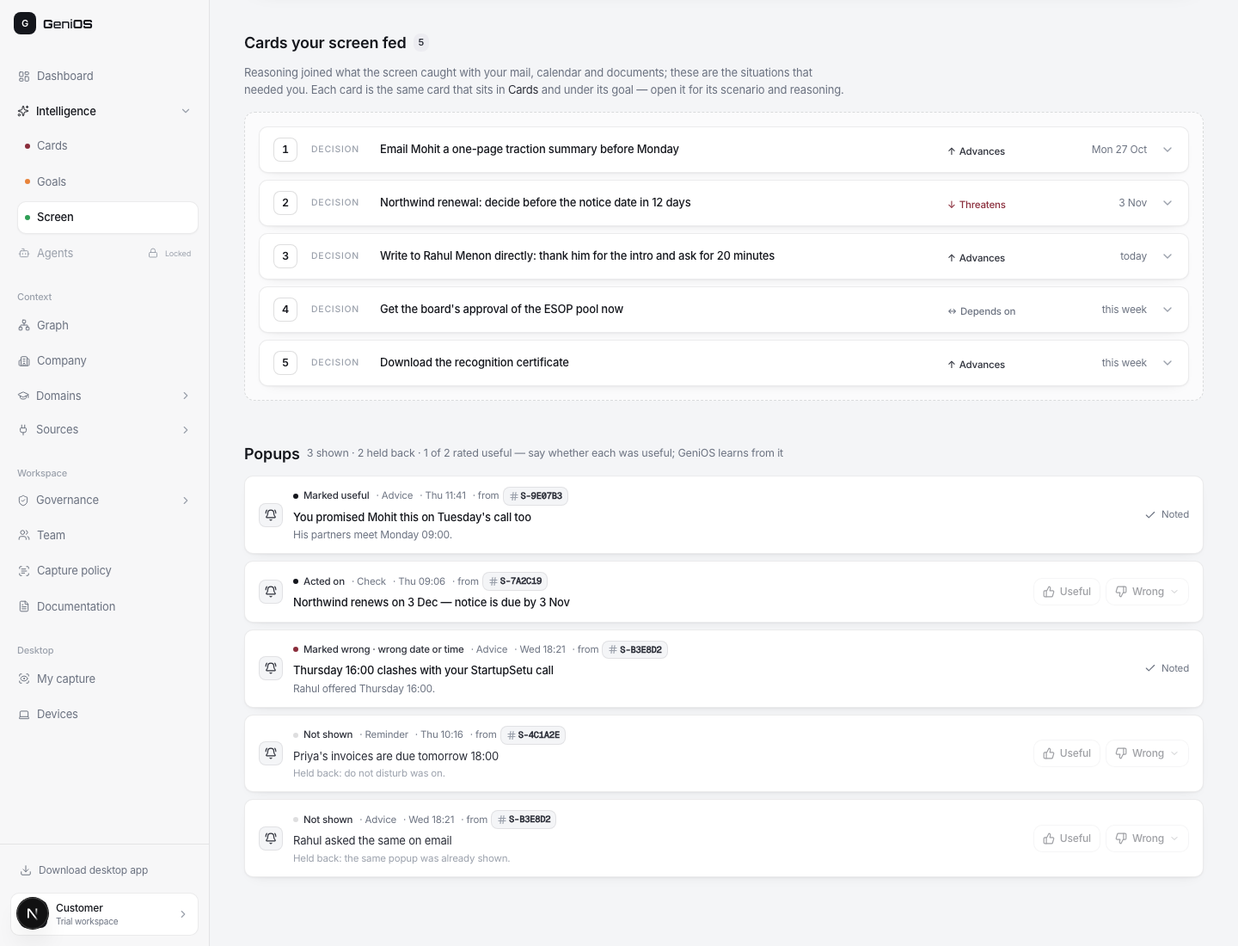
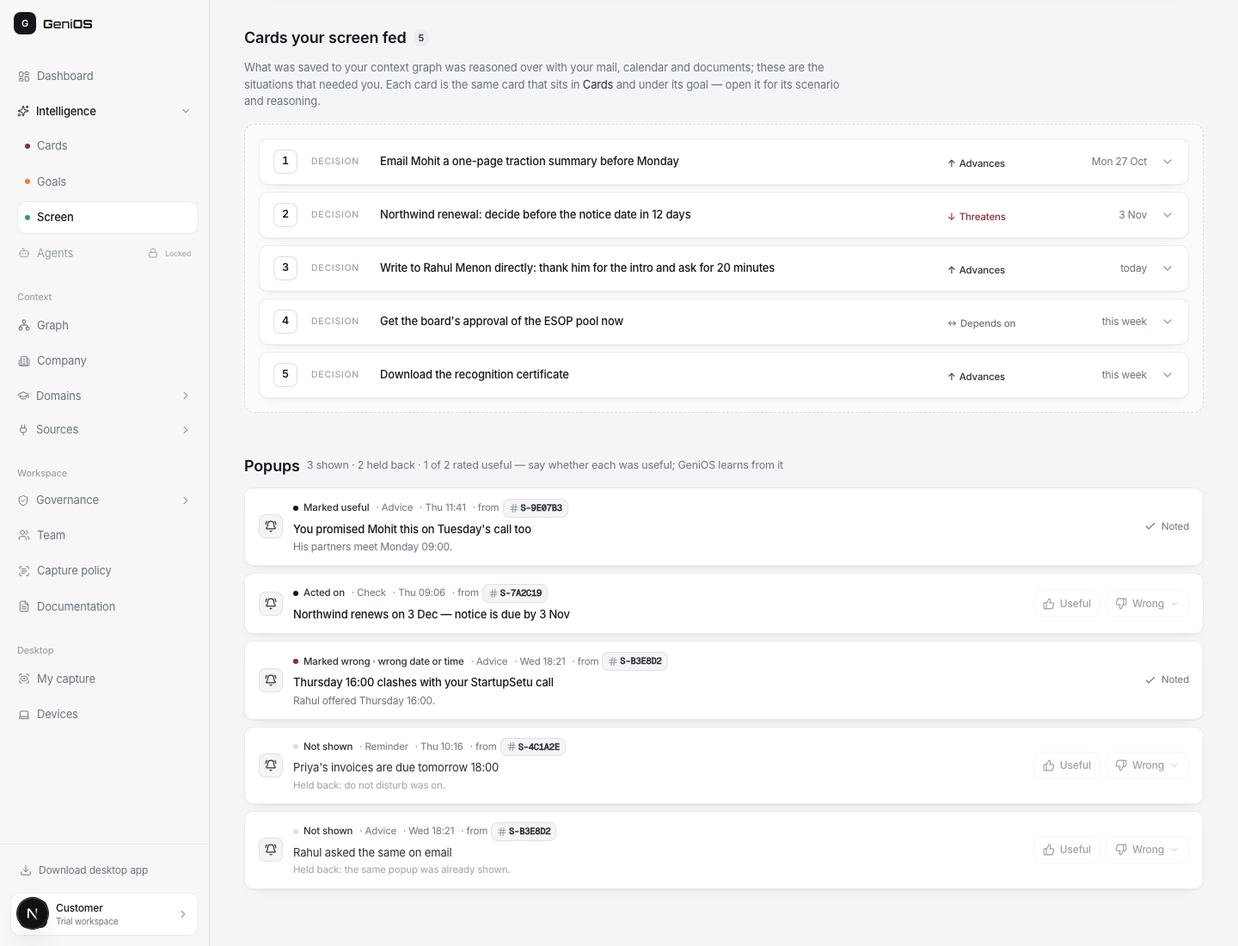
GeniOS-010: Screen by category — tags, the screen rebuilt, one line, kept or temporary
05-SCREEN/README.md for round two: five categories inside each day, tags on every row, an item
opened (the screen rebuilt from the kept words, in one line, who/where/when/due, kept or
temporary), live vs preview, and the brain fields it adds to B8 (remember/keep_reason, due_phrase).
Eight screenshots replace six; build review, start page and log updated.

diff --git a/speedrun008/GeniOS-010/05-SCREEN/README.md b/speedrun008/GeniOS-010/05-SCREEN/README.md
@@ -3,7 +3,7 @@
 **Written for:** Harsh (to wire it in) and Rohit (to review it).
 
 **Status, 22 Oct 2026:**
-- Built on the dashboard branch `rohit/nav-grouping`, commit `9130f84` (with `f151019`, the shared card parts, and `5c0504f`, Agents locked). Not merged, so not live.
+- Built on the dashboard branch `rohit/nav-grouping`: `9130f84` (the page), `972d122` (by category, tags, the screen rebuilt, kept or temporary), with `f151019` (the shared card parts) and `5c0504f` (Agents locked). Not merged, so not live.
 - **Route:** `/dashboard/moments`, Intelligence ▸ **Screen**. Members can open it too.
 - **Preview** (the full target, labelled "Preview — not your data"): `/dashboard/moments?demo=1`.
 - `tsc --noEmit` and `next build` are green. The page was checked signed in against the stand-in brain (`../02-DASHBOARD-HOME/tools/mock_brain.py`): Draft a reply and Done ran against it end to end.
@@ -14,16 +14,20 @@
 - *"Screen aur cards dono lagbhag ek hi tareeke se similar type mein dikhne wale hain, isliye dono ko smartly play karein taaki screen aur card ek saath ho jaayein, lekin alag-alag rahein."*
 - And: lock the Agents part.
 
+**Second round, same day** (on the built page): *"What your screen caught … tag lagana chahiye tha … categories honi chahiye ki Thursday ko kaun-kaun si cheezein kis-kis category mein aayi hain — reminder, update, risk, promise"*; when an item opens, show what was on screen; *"the words that caused it — NLP ki madad se one-liner, clear cut"*; where / when properly; and *"kuch important hoga to memory mein, reasoning mein, context graph mein save ho jaayega; temporary rahega to wahin miss ho jaayega"*. *"Customer ke hisaab se UX."* All of it is in `972d122`, below.
+
 **Screenshots** (in `screens/`):
 
 | File | What it shows |
 |---|---|
-| `screen-preview-top.png` | The preview as it opens: the week on one strip, How Screen works, the filters. |
+| `screen-preview-top.png` | The preview as it opens: the week by category, How Screen works. |
 | `screen-preview-how-and-rules.png` | How Screen works with **The rules** open. |
-| `screen-preview-item-open.png` | A screen item open: on your screen · at once · next. |
-| `screen-preview-item-card.png` | The same item, with **the card it fed** open inside it: the card's own scenario and reasoning. |
+| `screen-preview-by-category.png` | What your screen caught: the category and "show" filters, Thursday's items under their categories, every row with its tags. |
+| `screen-preview-item-open.png` | An item open: the screen rebuilt (the due words marked), in one line, who · where · when · due, what GeniOS did right away. |
+| `screen-preview-item-next.png` | The same item: kept (saved to the context graph on Mohit Rao, reasoned over) and the card it fed, open. |
+| `screen-preview-temporary.png` | A temporary item: a follow-up that is not saved to the graph, and why. |
 | `screen-preview-cards-popups.png` | Cards your screen fed, and the popups. |
-| `screen-signed-in.png` | A signed-in seat, against the stand-in brain: real items, the card step shown as not served yet. |
+| `screen-signed-in.png` | A signed-in seat against the stand-in brain: real items by category, one open. |
 
 ---
 
@@ -34,7 +38,8 @@ Every **work** screen takes **both** paths. The instant path saves what to do no
 ```
  1 Read ─────► 2 Sort ──┬─► AT ONCE (seconds) ── 3 Save ── follow-ups ──► 4 Remind · popup (only if it adds)
  a few seconds   free   │
-                        └─► NEXT (hourly) ────── 5 Memory ── on the person ──► 6 Reason → card (under its goal)
+                        └─► NEXT (hourly) ────── 5 Keep or let go ── important: context graph ──► 6 Reason → card (under its goal)
+                                             temporary: stays a follow-up, removed 90 days after it closes
 ```
 
 | # | Stage | What happens | Brain |
@@ -43,7 +48,7 @@ Every **work** screen takes **both** paths. The instant path saves what to do no
 | 2 | **Sort** | Free. A conversation is always judged; a page is judged only if it names someone in the graph, has a participant with an email/LinkedIn, or is a work app or site. The rest is skipped, counted with its reason — and still reaches the hourly batch, late and cheap. | `reason/moments/screen_triage.py` |
 | 3 | **Save** | A **rule** answers when a sender writes a clear ask or promise with a date (free; the quote is the item). Otherwise **one quick read** (one model call) returns `work`, `remember` and up to 3 items: kind, text, who, due, quote. An item whose quote is not on screen is dropped. Saved as `screen_followups`. | `screen_rules.py`, `screen_insight.py`, `followups.upsert` |
 | 4 | **Remind · popup** | Reminders before each due time (heads-up → final → overdue). A popup **only** when it adds something the screen does not say: a repeat ask, a promise owed, a calendar clash, the same ask elsewhere, an urgent risk. Held back by popups-off, the hourly cap, do-not-disturb or a duplicate — and still listed. | `screen_insight.py` (the product rule), `moments` |
-| 5 | **Memory** | At most once an hour per thread, the thread becomes a seat-private source event. Each item is written as an observation (`screen.<kind>`) on the person or company it is about — **only one GeniOS already knows**; a screen never creates a person. The hourly batch (half price) catches what the instant read never saw. | `platform/screen_promoter.py`, `screen_memory.py`, `screen_memory_batch.py` |
+| 5 | **Keep or let go** | **Important** items are saved to the context graph: at most once an hour per thread, the thread becomes a seat-private source event, and each item is written as an observation (`screen.<kind>`) on the person or company it is about — **only one GeniOS already knows**; a screen never creates a person. **Temporary** items (the model's `remember: false`, a throwaway thread, or a person not in the graph) stay follow-ups and are removed 90 days after they close. The hourly batch (half price) catches what the instant read never saw. | `screen_insight.py` (`remember`), `platform/screen_promoter.py`, `screen_memory.py`, `screen_memory_batch.py`, `followups.purge` |
 | 6 | **Reason → card** | From memory, the item is reasoned over with mail, calendar and documents, like any other evidence. A situation that needs you becomes a **card** — in Cards, and under its goal. | L1 → L3 → L2 → cards |
 
 **The rules** (a toggle on the page): never read · what is kept (never the screen; a fingerprint and ≤ 12 words; the hourly text is encrypted and deleted once done) · when a popup shows · who sees it (only you; owners and admins never) · what it costs · where it ends up (follow-ups here, as reminders and in your morning brief; cards in Cards and under their goal).
@@ -51,44 +56,65 @@ Every **work** screen takes **both** paths. The instant path saves what to do no
 ## 2 · The page, top to bottom
 
 1. **Header:** Intelligence · Screen, one line, and "Only you see this page."
-2. **The week on one strip:** a donut of items by kind (waiting on you · your promise · risk · deadline · their promise · next step), then open now · promises kept · asks answered.
-3. **How Screen works:** the six stages above, each with this week's count, and **The rules**.
-4. **What your screen caught:** filters (All · Open · Closed · Fed a card, and the six kinds), then items **grouped by day**, newest first.
+2. **The week on one strip:** a donut of items **by category**, then open now · promises kept · asks answered.
+3. **How Screen works:** the six stages above, each with this week's count, and **The rules** (never read · what is kept · important or temporary · when a popup shows · who sees it · what it costs).
+4. **What your screen caught:**
+   - **Filters:** *Category* (All · Asked of you · Deadlines & reminders · Risks · Promises · Updates & next steps) and *Show* (Everything · Open · Closed · Saved to graph · Temporary · Fed a card), each with a count.
+   - **By day, newest first.** The day line says how many came in each category ("1 asked of you · 1 deadline · 1 risk · 1 promise").
+   - **Inside a day, by category,** in a fixed order, each with its count and one line of what it means ("someone is waiting on your answer").
 5. **Cards your screen fed:** each card once, with the screen items that fed it.
 6. **Popups:** shown and held back, with Useful / Wrong.
 
-## 3 · A screen item, and how it differs from a card
+## 3 · Categories, tags, and an item
+
+**Five categories, from the six kinds the brain saves:**
+
+| Category | Kinds (`followups.KINDS`) | Row tag | Means |
+|---|---|---|---|
+| Asked of you | `ask` | Asked of you | someone is waiting on your answer |
+| Deadlines & reminders | `deadline` | Deadline | a date GeniOS reminds you before |
+| Risks | `risk` | Risk | it costs you if it is missed |
+| Promises | `my_promise`, `their_promise` | Your promise · Their promise | yours to keep, or theirs to watch |
+| Updates & next steps | `next_step` | Update | something changed, and a step follows |
+
+**Tags on every row:** the category tag first, then — after who · app · time — the next reminder (`Reminder Fri 10:00`), `Popup shown`, `Saved to graph` or `Temporary` (dashed), and the card it fed (`Card G-3F2A9C · C02`, dark). On the right: when it is due, or how it ended.
+
+**An item, opened:**
+
+```
+SCREEN ITEM #S-9E07B3 · seen on WhatsApp, Thursday 11:40      [Done][Snooze▾][Draft a reply][Done elsewhere][Dismiss]
+ON YOUR SCREEN
+ ┌ WhatsApp · chat with Mohit Rao ──────────── 11:40 ┐  ┌ IN ONE LINE ─────────────────────────────────────┐
+ │ ┌ Mohit Rao ───────────────────────────────────┐  │  │ Mohit wants your traction one-pager before        │
+ │ │ Partners meet Monday — one-pager on traction  │  │  │ Northgate's partner meeting on Monday, 9:00.      │
+ │ │ bhej doge _before that_?                      │  │  │ Written from the words on screen: who, what, when │
+ │ └───────────────────────────────────────────────┘  │  └───────────────────────────────────────────────────┘
+ │ Rebuilt from the words GeniOS kept — your screen itself is never stored.
+ [Who: Mohit Rao, Northgate Capital] [Where: WhatsApp, a chat] [When: Today, 11:40] [Due: Mon 26 Oct, 09:00 — read from "before that"]
+WHAT GENIOS DID RIGHT AWAY · IN SECONDS    [Saved as: Deadline] [How it was read] [Reminders] [Popup]
+WHAT HAPPENS TO IT NEXT · WITHIN THE HOUR
+ [Kept or temporary: Important — saved to your context graph, on Mohit Rao at 12:00 …
+   ✓ Follow-up › ✓ Context graph · Mohit Rao › ✓ Reasoning › ✓ Card G-3F2A9C · C02]   [Reasoned with] [Outcome]
+THE CARD IT FED   ┌┄ [02] DECISION  Email Mohit a one-page traction summary …   (opens on its own: scenario · reasoning) ┄┐
+```
+
+- **The screen, rebuilt.** The screen is never stored, so there is no screenshot to show. The page rebuilds what was seen from what *is* kept — the app, the person, the time and the ≤ 12 words — as a chat bubble (WhatsApp, Slack, LinkedIn …; "You" on the right for your own promise), a mail line (Outlook, Gmail) or a page line (a browser). The words that set the due date are marked.
+- **In one line.** The instant read writes each item as one line (`text`, ≤ 140 characters) from the words on screen; the page shows it with the due it resolved. In the preview the lines are written to read as who · what · by when.
+- **Kept or temporary.** Important → *saved to your context graph* on the person or company, private to you, and reasoned over; the steps show how far it got (follow-up › context graph › reasoning › card). Temporary → *not saved to the graph*, with the reason, and the steps follow-up › reminders › closes › removed 90 days after. A temporary item has no "reasoned with" or "outcome": nothing reasons over it.
 
 **Screen and card are two different things, drawn as two different things, linked both ways.**
-
-```
-┌ SCREEN ITEM  (level 1: white, ink edge when open) ─────────────────────────────────────────┐
-│ [WA]  ● Deadline   Traction one-pager to Mohit before …    [⚡At once]─[▤Memory]─[▣Card]  Mon 26 Oct ▴ │
-│       Mohit Rao · Northgate Capital · WhatsApp · 11:40                                     │
-│  SCREEN ITEM #S-9E07B3  seen on WhatsApp, Thursday 11:40      [Done][Snooze▾][Draft a reply][Done elsewhere][Dismiss] │
-│  ON YOUR SCREEN       [The words that caused it ·· ][Who][Where · when]                     │
-│  AT ONCE · SECONDS    [Saved as][How it was read][Reminders][Popup]                        │
-│  NEXT · HOURLY        [Memory][Reasoned with][Outcome: fed card G-3F2A9C · C02]             │
-│  THE CARD IT FED  ┌┄┄ dashed ┄┄┄┄┄┄┄┄┄┄┄┄┄┄┄┄┄┄┄┄┄┄┄┄┄┄┄┄┄┄┄┄┄┄┄┄┄┄┄┄┄┄┄┄┄┄┄┄┄┄┄┄┄┄┄┐  │
-│                   ┆ [02] DECISION  Email Mohit a one-page traction …  ↑ Advances  Mon 27 Oct ▾ ┆  │  ← the card: Goals' own row,
-│                   ┆      Fed by [WA] #S-9E07B3 + Mohit's email · Tuesday's call notes      ┆  │    accent edge, opens on
-│                   ┆      SCENARIO [..][..][..]   REASONING [..][..][..]                    ┆  │    its own click
-│                   └┄┄┄┄┄┄┄┄┄┄┄┄┄┄┄┄┄┄┄┄┄┄┄┄┄┄┄┄┄┄┄┄┄┄┄┄┄┄┄┄┄┄┄┄┄┄┄┄┄┄┄┄┄┄┄┄┄┄┄┄┄┄┄┄┄┄┄┄┘  │
-└────────────────────────────────────────────────────────────────────────────────────────────┘
-```
 
 | | Screen item | Card |
 |---|---|---|
 | What it is | what the screen **saw**: the words, who, where, when | what reasoning **concluded** needs you |
 | Id | `S-XXXXXX` (the follow-up's `fu_…`) | `G-XXXXXX · C0N` under its goal, or `C-XXXXXX` |
-| Leading mark | the app's mark (WA, SL, OL, IN, CH …) | its number in a box (02) |
+| Leading mark | the app's mark (WA, SL, OL, IN, CH …) and its category tag | its number in a box (02) |
 | Edge when open | ink | burgundy accent |
-| Opens into | on your screen · at once · next | scenario · reasoning (the same `CardBody` as Goals) |
-| Its path | on the row: **At once → Memory → Card** (solid = happened, dashed = not yet or not known, "No card" = reasoned, no card needed) | — |
-| Link | "Outcome: fed card …" and the nested card | "Fed by S-… + other sources" |
+| Opens into | on your screen · right away · what happens next | scenario · reasoning (the same `CardBody` as Goals) |
+| Link | the dark `Card …` tag; "Outcome: fed card …"; the nested card | "Fed by S-… + other sources" |
 | Where else | Screen only (private to you) | Cards, and under its goal on Goals |
 
-- **One item can feed one card; one card can be fed by many items** (and by mail, calendar, documents). So the cards section lists each card once with all that fed it.
+- One item can feed one card; one card can be fed by many items (and by mail, calendar, documents). So the cards section lists each card once with all that fed it.
 - The card is drawn with the **same component** Goals uses (`intel/parts.tsx` · `CardItem`, `CardBody`), so a card reads the same on Goals, on Screen and — next — in Cards.
 - The preview's five cards are the Goals preview's own cards, each with the screen quote added to its proof (`Screen · WhatsApp · S-9E07B3`).
 
@@ -96,8 +122,10 @@ Every **work** screen takes **both** paths. The instant path saves what to do no
 
 | | Preview (`?demo=1`, or localhost signed out) | Live, signed in, today |
 |---|---|---|
-| Items | 10 items over 3 days, every field | **real** — `GET /v1/followups?status=all`: kind, text, who, app, due, the quote, reminders, how it ended |
-| In memory | written on whom, at what time | **real**: written when `subject_node_id` is set; otherwise "not in memory yet — within the hour if the person is known, else it stays in your private follow-ups" |
+| Items, categories, tags | 10 items over 3 days in all five categories, every tag | **real** — `GET /v1/followups?status=all`: kind (→ category), text, who, app, due, the quote, reminders, how it ended |
+| The screen, rebuilt | the quote as a bubble / mail line / page line, due words marked | **real** from the quote, app, who and time; nothing is marked (the due's source words are not served) |
+| In one line | written as who · what · by when | **real**: the item's `text` with its due |
+| Kept or temporary | 7 saved (on whom, at what time, why) · 3 temporary (why) | **real** "saved" when `subject_node_id` is set; otherwise "not in your context graph yet" — temporary vs not-yet is not served |
 | How it was read | rule · one quick read · hourly batch | "not served yet" |
 | Popup per item | which popup, shown or held and why | not linked to items yet (popups are listed below, live) |
 | Card it fed · Cards your screen fed | the card, nested, and the five cards | "linked once the brain serves it" (B8) |
@@ -111,6 +139,8 @@ Every **work** screen takes **both** paths. The instant path saves what to do no
 | On screen | Field (proposal) | Where it comes from |
 |---|---|---|
 | How it was read | `read_by` on each follow-up: `rule` · `quick_read` · `hourly_batch` | which path called `followups.upsert` (`screen_rules`, `screen_insight`, `screen_memory_batch`) |
+| Kept or temporary, and why | `remember` (the verdict's `memory`) and a short `keep_reason` on each follow-up | the instant judge's `remember`; `subject_node_id` null with `remember: true` = the person is not known |
+| The due words to mark | `due_phrase` on each follow-up (e.g. "kal tak") | the rule or the model that resolved the due |
 | Memory · at | `graph_written_at` on each follow-up | already a column — add it to `item_out` |
 | Popup for this item | `moment_id` on each follow-up (or `followup_id` on the moment) | the insight call that produced both |
 | The card it fed | `card_ids[]` on each follow-up | cards whose evidence includes the follow-up's `observation_id` (0211) |
@@ -127,12 +157,13 @@ All paths are under `src/` in the dashboard repo.
 ```
 app/dashboard/moments/page.tsx                renders ScreenPage (route kept)
 product/internal/dashboard/screen/
-  types.ts        ScreenItem (kind, state, words, who, app, due, instant, memory, reasoning) · ScreenCard (fedBy)
+  types.ts        Category · ScreenItem (kind, text, summary, state, words, who, app, due, instant, keep, reasoning)
+                  · ScreenCard (fedBy)
                   · ScreenPopup · ScreenWeek · ScreenView
   sample.ts       SAMPLE_SCREEN_VIEW — 10 items, 5 cards (the Goals preview's own), 5 popups
   live.ts         liveScreenView(followups, report, moments) · appName
-  screen-page.tsx ScreenPage · Overview · HowItWorks (Stage, RULES) · ItemRow · ItemDetails · PathTrack · ItemActionsBar
-                  · FedBy · PopupRow · FilterChip
+  screen-page.tsx ScreenPage · Overview · HowItWorks (Stage, RULES) · CATEGORY · ItemRow · ItemTags · CategoryTag
+                  · ItemDetails · ScreenSnippet (Marked) · KeepBox · ItemActionsBar · FedBy · PopupRow · FilterChip
 product/internal/dashboard/intel/parts.tsx    shared with Goals: CardItem (+ note) · CardDeck (+ noteOf) · CardBody · Mini
                                               · GroupLabel · Sub · Code · Toggle · RelationTag · L1/L2/L3
 lib/api-followups.ts                           + listFollowups(status) · snoozeFollowup · draftFollowupReply; Followup gains

diff --git a/speedrun008/GeniOS-010/LOG.md b/speedrun008/GeniOS-010/LOG.md
@@ -36,3 +36,6 @@
 | 22 Oct | Card parts shared: `CardItem`, `CardDeck`, `CardBody`, `Mini` and the depths move from goals-page into `intel/parts.tsx`, unchanged, so a card reads the same on Goals, Screen and (next) Cards. | dashboard `f151019` |
 | 22 Oct | **Screen rebuilt.** How Screen works in six stages with the rules; every item (`S-XXXXXX`) by day with its path on the row (at once → memory → card), opening into on your screen · at once · next, and the card it fed nested as its own card; cards your screen fed; popups. Live: follow-ups with words, who, due, reminders, how they ended, in memory or not; Done, Snooze, Draft a reply, Done elsewhere, Dismiss; popup feedback. Preview at `?demo=1`. Checked signed in against the stand-in brain (draft and done ran end to end), at 1440 and 1024; `tsc` green at each of the three commits, `next build` green. Which card an item fed waits on B8, now expanded. | dashboard `9130f84` |
 | 22 Oct | Docs: `05-SCREEN/README.md` (new, with six screenshots); `02-DASHBOARD-HOME/04-SCREEN.md` now points there; B8 expanded; 01-NAVIGATION, 04-BUILD-REVIEW (§0, §1, §4, R11–R12, checklist), 00-START-HERE and the stand-in brain (follow-ups, popups, their writes) updated; the old `screen-page-signed-in.png` removed. | this folder |
+| 22 Oct | Rohit, on the built Screen page: tag every row and sort it by category inside each day (reminder, update, risk, promise); when an item opens, show what was on screen; one clear line instead of the bare words; where and when properly; show what is important (saved to the context graph, reasoned over) and what is temporary (let go); *"aadha adhoora kyun … customer ke hisaab se UX"*. | — |
+| 22 Oct | **Screen by category.** Five categories (asked of you · deadlines & reminders · risks · promises · updates & next steps) inside each day with counts; Category and Show filters; tags on every row (category, next reminder, popup shown, saved to graph / temporary, the card it fed); an open item shows the screen rebuilt from the kept words (chat bubble, mail line or page line; the due words marked), the item in one line, who · where · when · due, what GeniOS did right away, and kept-or-temporary with its steps. Sample: 7 kept, 3 temporary, each with why. Live: the one line is `text` + due; "saved" from `subject_node_id`. Checked in the preview at 1440 and 1024 and signed in against the stand-in brain; `tsc` and `next build` green. Brain asks added to B8: `remember`/`keep_reason`, `due_phrase`. | dashboard `972d122` |
+| 22 Oct | Docs: `05-SCREEN/README.md` §1–§6 for round two (categories, tags, the item opened, kept or temporary, live vs preview, brain fields); eight new screenshots replace six; build review, start page updated. | this folder |

diff --git a/speedrun008/GeniOS-010/04-BUILD-REVIEW.md b/speedrun008/GeniOS-010/04-BUILD-REVIEW.md
@@ -3,9 +3,9 @@
 **Written for:** Rohit and Harsh, to analyse the work before deciding the next step.
 
 **Status, 22 Oct 2026:**
-- **Branch:** `rohit/nav-grouping` in `genios-brain-dashbaord`, pushed. HEAD is `9130f84`.
-  - 23 commits on top of `origin/main` `6ddc4db`: 33 files, +6,703 / −906 lines.
-  - `tsc --noEmit` and `next build` are green at `9130f84`.
+- **Branch:** `rohit/nav-grouping` in `genios-brain-dashbaord`, pushed. HEAD is `972d122`.
+  - 24 commits on top of `origin/main` `6ddc4db`: 33 files, +6,958 / −906 lines.
+  - `tsc --noEmit` and `next build` are green at `972d122`.
 - **Not merged, so not live:** brain.thegenios.com serves `main`.
 - **No brain code changed.** Every brain change the design needs is named in §6 and in the folder docs.
 
@@ -240,7 +240,7 @@ Dashboard · Cards · Intelligence ▸ Brain · Graph · Context · Sources ▸ 
 
 ## 4 · Screen
 
-**Details:** `05-SCREEN/README.md` (it replaces `02-DASHBOARD-HOME/04-SCREEN.md`). **Commits:** `0ab7b03` (first version) · `f151019` (shared card parts) · `9130f84` (rebuilt).
+**Details:** `05-SCREEN/README.md` (it replaces `02-DASHBOARD-HOME/04-SCREEN.md`). **Commits:** `0ab7b03` (first version) · `f151019` (shared card parts) · `9130f84` (rebuilt) · `972d122` (by category).
 
 **What was there:** Desktop ▸ **Moments**: the popups the desktop app raised, with Useful / Wrong feedback, and This week / Open follow-ups.
 
@@ -265,6 +265,7 @@ Dashboard · Cards · Intelligence ▸ Brain · Graph · Context · Sources ▸ 
 |---|---|---|---|
 | `0ab7b03` | show what the screen catches; does reasoning need its own part? | two lanes on top of Moments; reasoning lane links to Cards | — |
 | `9130f84` | details on how and what; a dummy; screen and cards together but apart | the six stages and rules; items with their path; the card nested; cards fed; popups; preview | the two-lane block, This week and Open follow-ups as separate boxes |
+| `972d122` | *"aadha adhoora kyun"*: tag it, sort it by category (reminder, update, risk, promise) inside each day; show the screen; one clear line; where/when properly; important → context graph, temporary → let go; think like the customer | five categories inside each day with counts; category + show filters; tags on every row; the screen rebuilt from the kept words with the due words marked; in one line; who · where · when · due; kept-or-temporary with its steps | the at-once → memory → card track on the row; the bare quote box |
 
 **How it integrates:**
 - **Live today:** items with their words, who, due, reminders, how they ended and whether they are in memory; all actions; popups.

diff --git a/speedrun008/GeniOS-010/00-START-HERE.md b/speedrun008/GeniOS-010/00-START-HERE.md
@@ -4,7 +4,7 @@
 
 **Status, 22 Oct 2026:**
 - Built and tested, but **not live**.
-- Everything is on the dashboard branch `rohit/nav-grouping` in `github.com/themoronss/genios-brain-dashbaord`: 23 commits on top of `origin/main` `6ddc4db` (33 files, +6,703 / −906), HEAD `9130f84`. `f137d41` … `cc1b58f` are the Goals page; `5c0504f` locks Agents; `f151019` and `9130f84` rebuild the Screen page.
+- Everything is on the dashboard branch `rohit/nav-grouping` in `github.com/themoronss/genios-brain-dashbaord`: 24 commits on top of `origin/main` `6ddc4db` (33 files, +6,958 / −906), HEAD `972d122`. `f137d41` … `cc1b58f` are the Goals page; `5c0504f` locks Agents; `f151019`, `9130f84` and `972d122` rebuild the Screen page.
 - **For the analysis, start with [`04-BUILD-REVIEW.md`](04-BUILD-REVIEW.md):** for every part, what was there, what we built, why, how, each round of review and what was dropped, how it integrates, the risks, and Harsh's integration order.
 - brain.thegenios.com serves `main`, so nothing here is visible until that branch is merged.
 - No brain code changed for any of this. Every brain change the design needs is listed in `02-DASHBOARD-HOME/05-BRAIN-WORK.md` and `03-GOALS/README.md`.
